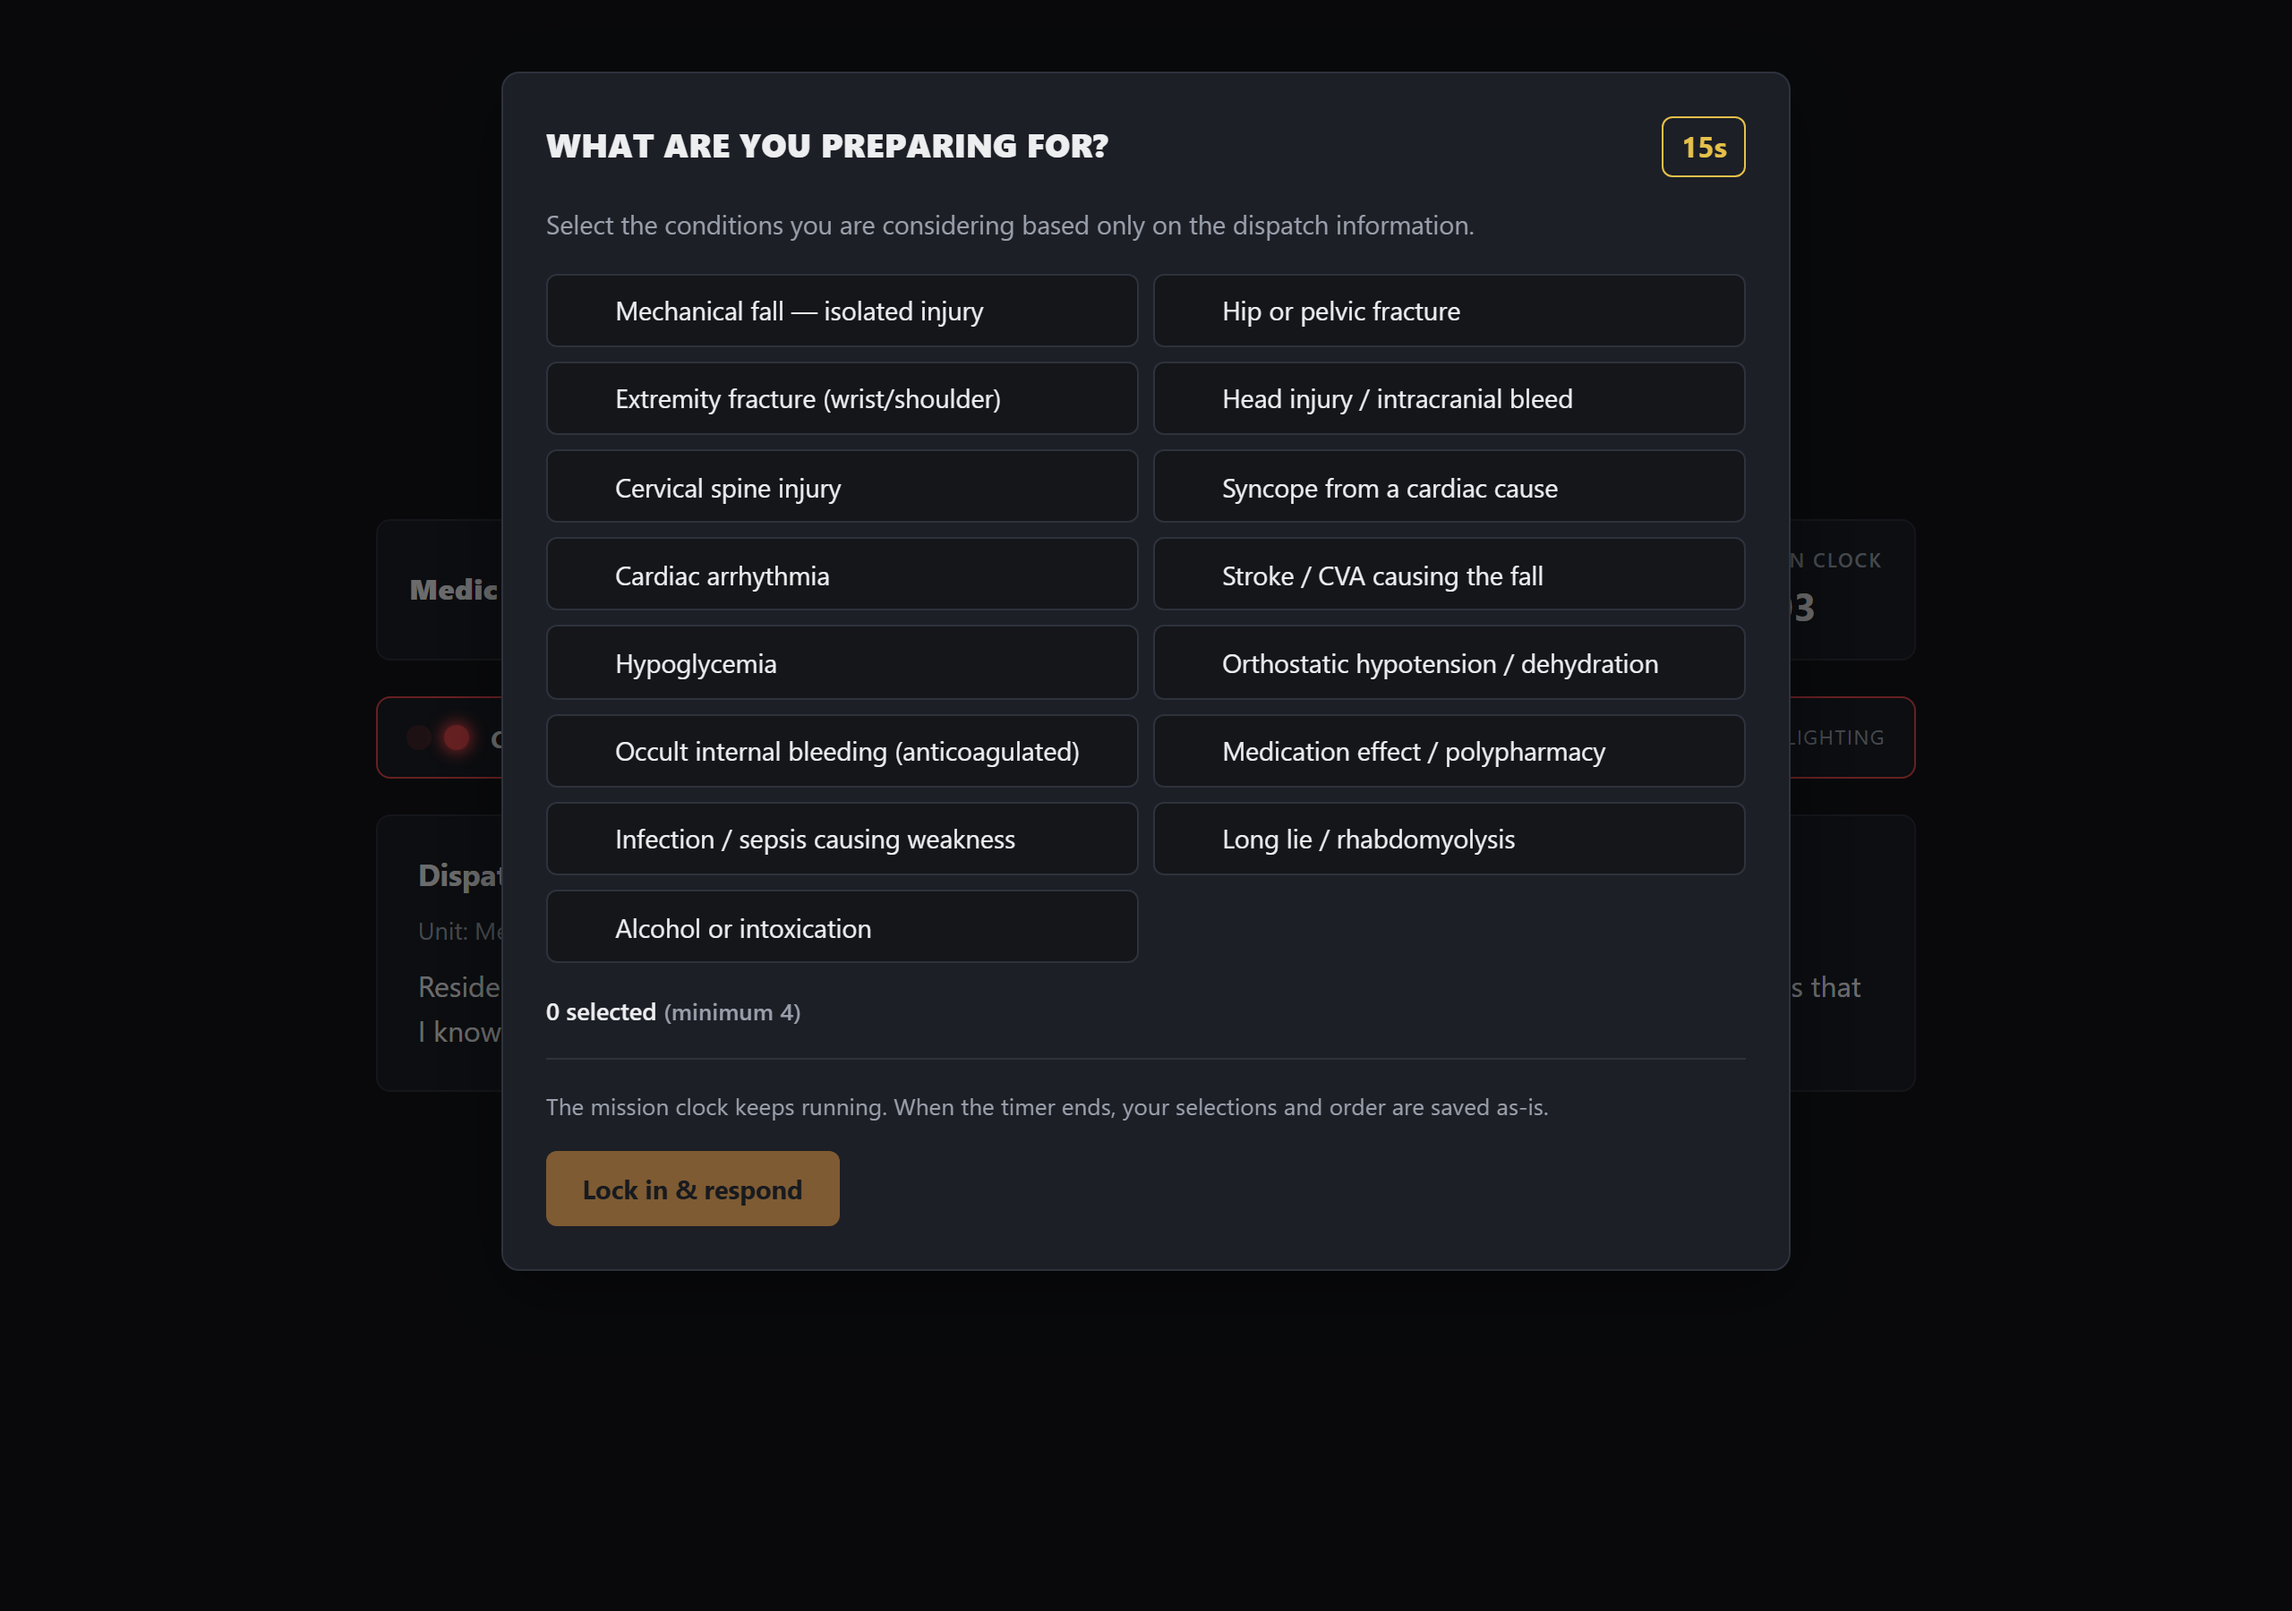
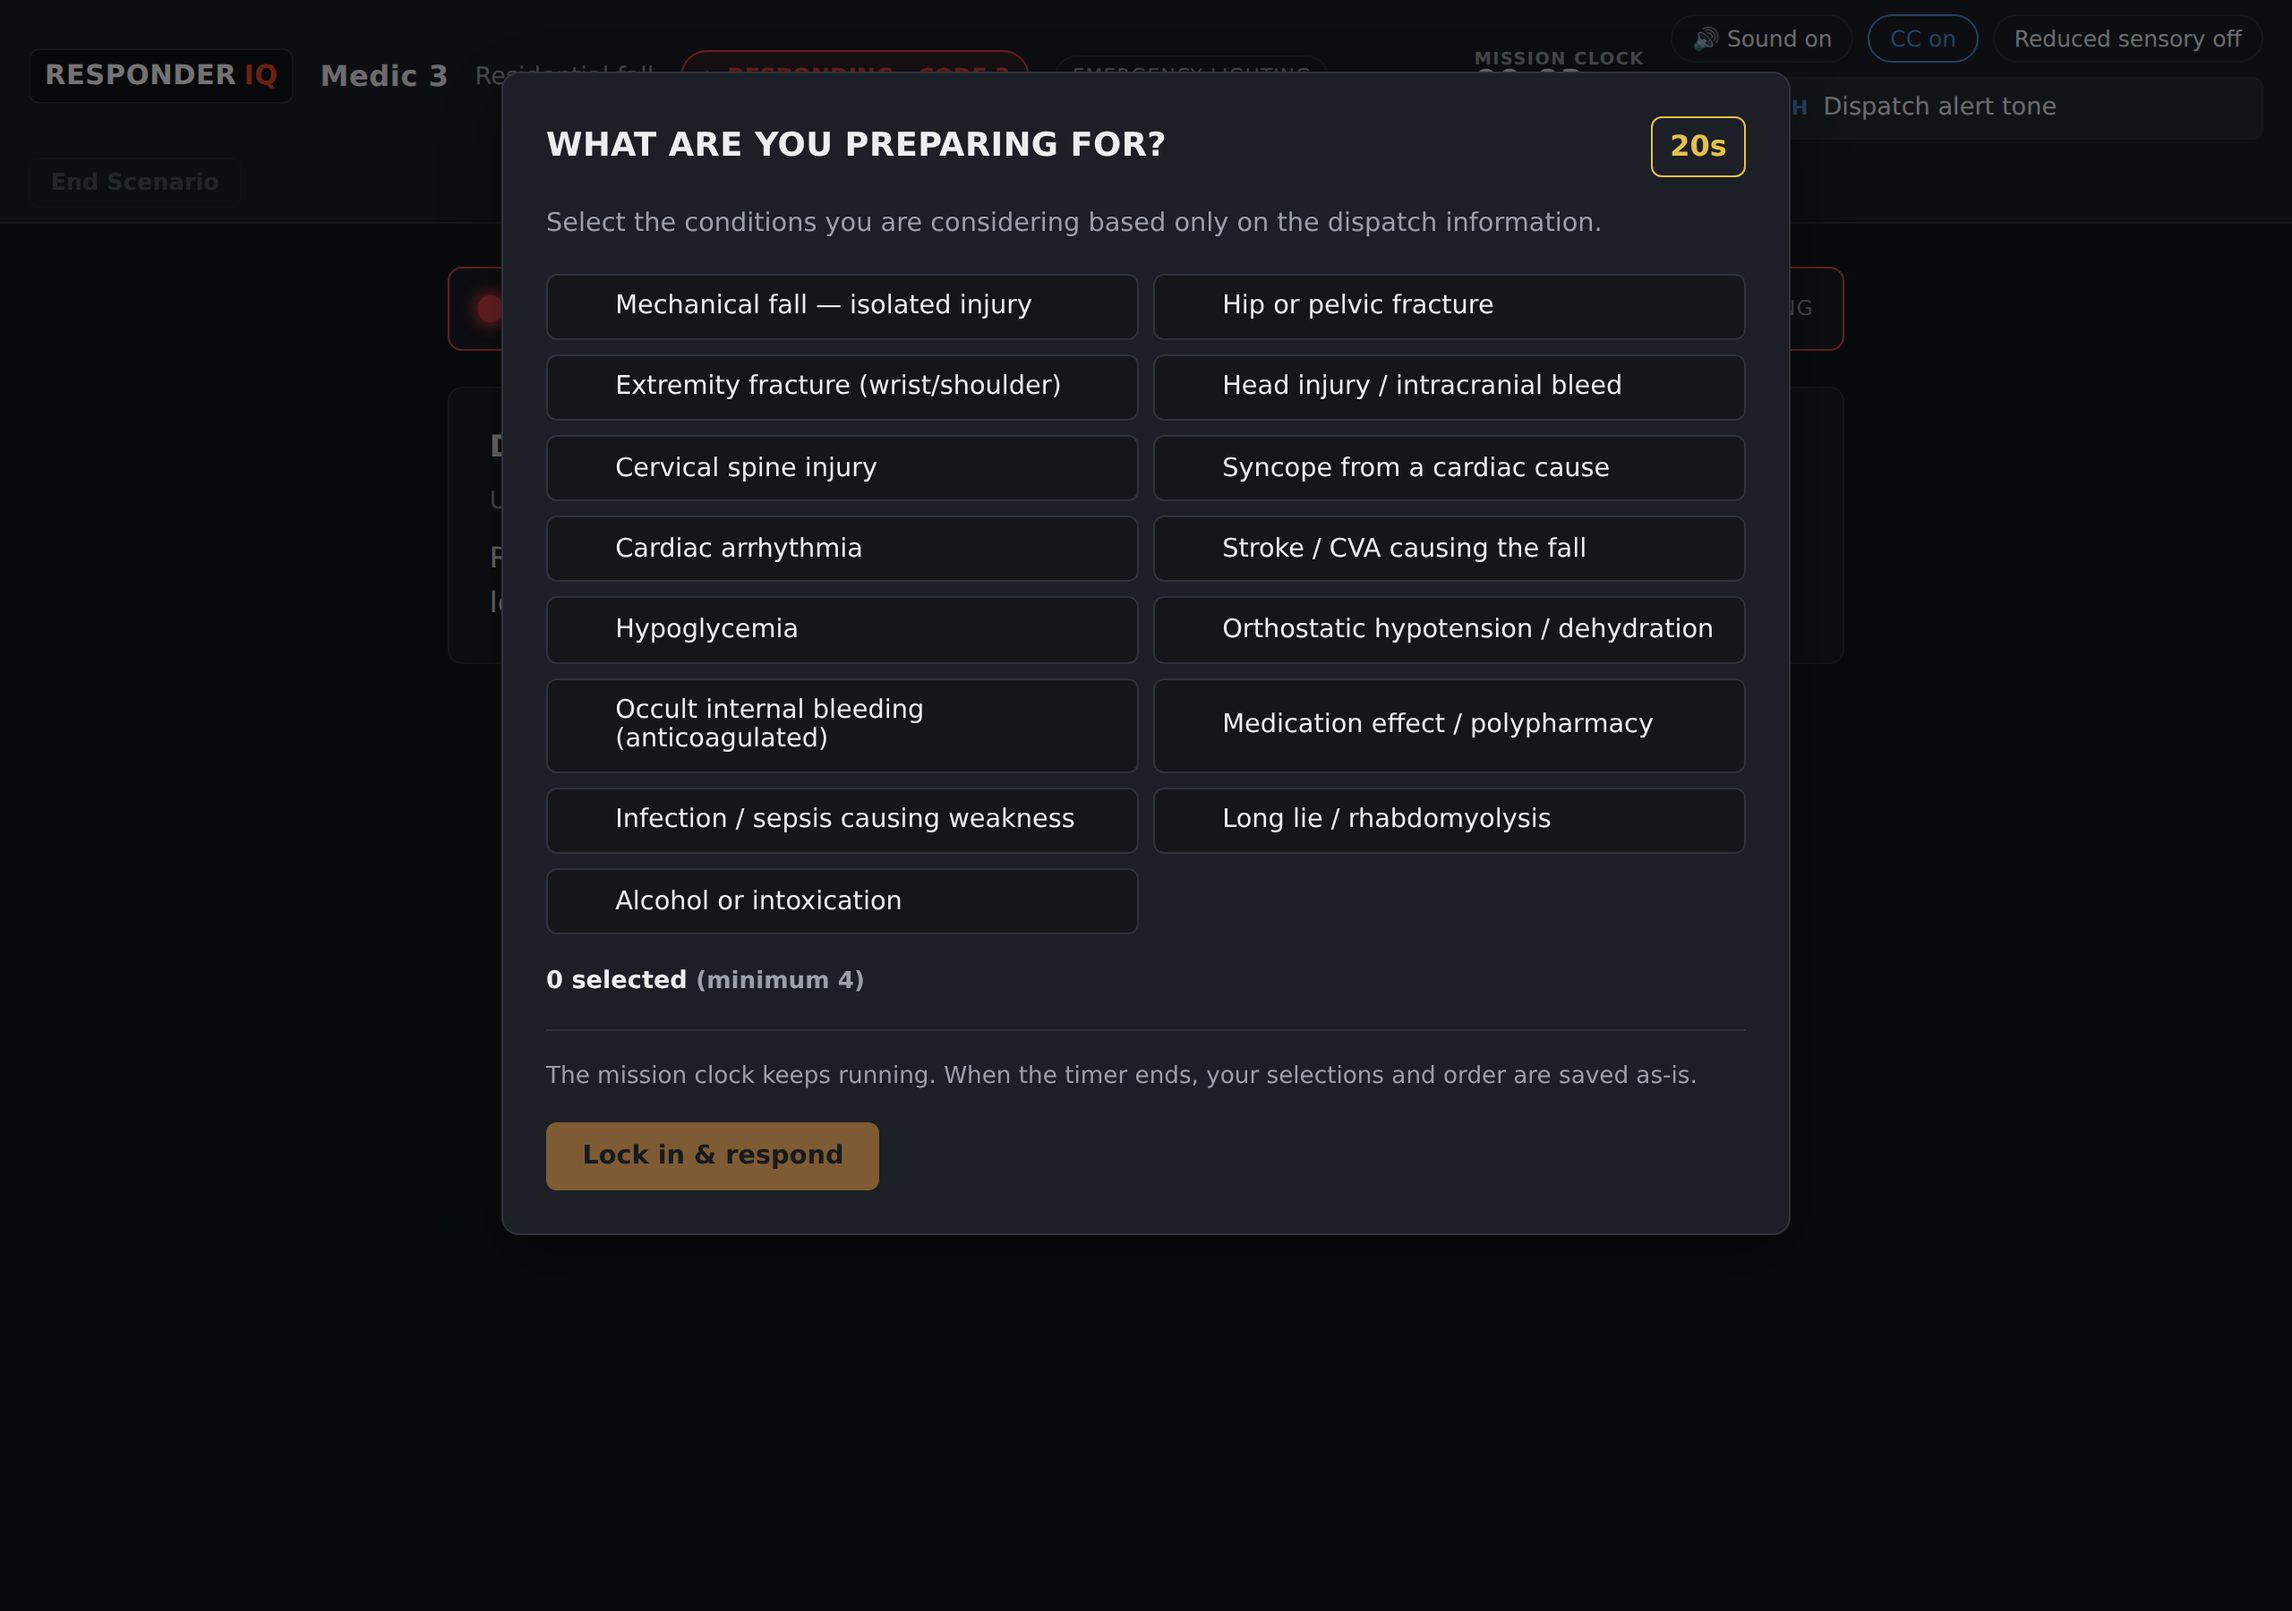
Differential timer: +5s at each difficulty (Orientation 15→20s, Above 10→15s)
Adjusts only the two centralized differential-countdown values in
lib/engine/config.ts. Every other timer (dispatch tone, mission clock, equipment,
scene, police, distraction escalation), the differential options, minimum
selection count, ranking, timeout behavior, scoring, and UI layout are unchanged.

- lib/engine/config.ts: differentialTimerSecondsOrientation 15→20,
  differentialTimerSecondsAboveOrientation 10→15.
- Tests updated to the new values and timeout timing:
  lib/engine/config.test.ts, lib/opsim/machine.test.ts,
  components/OperationalSim/OperationalSim.test.tsx.
- Docs/comments: lib/opsim/difficulty.ts, docs/STEP-12-HANDOFF.md.
- Re-captured the differential screenshots that display the countdown badge
  (opsim-differential-orientation/advanced/ranked).

Claude-Session: https://claude.ai/code/session_013BGZnK9HxRyAVExVavsMcA

diff --git a/components/OperationalSim/OperationalSim.test.tsx b/components/OperationalSim/OperationalSim.test.tsx
@@ -149,21 +149,21 @@ describe('OperationalSim — differential challenge (§8)', () => {
 });
 
 describe('OperationalSim — timers time out and save partial work (§8)', () => {
-  it('Orientation times out at 15 seconds after the differential opens (tone 3s + 15s)', () => {
+  it('Orientation times out at 20 seconds after the differential opens (tone 3s + 20s)', () => {
     const { advance } = renderSim({ level: 'orientation' });
+    advance(3); // opens at t=3
+    advance(19); // t=22, still open
+    expect(screen.getByRole('dialog', { name: /what are you preparing for/i })).toBeInTheDocument();
+    advance(1); // t=23 -> timeout
+    expect(screen.queryByRole('dialog', { name: /what are you preparing for/i })).toBeNull();
+  });
+
+  it('Above Orientation times out at 15 seconds (tone 3s + 15s)', () => {
+    const { advance } = renderSim({ level: 'advanced' });
     advance(3); // opens at t=3
     advance(14); // t=17, still open
     expect(screen.getByRole('dialog', { name: /what are you preparing for/i })).toBeInTheDocument();
     advance(1); // t=18 -> timeout
-    expect(screen.queryByRole('dialog', { name: /what are you preparing for/i })).toBeNull();
-  });
-
-  it('Above Orientation times out at 10 seconds (tone 3s + 10s)', () => {
-    const { advance } = renderSim({ level: 'advanced' });
-    advance(3); // opens at t=3
-    advance(9); // t=12, still open
-    expect(screen.getByRole('dialog', { name: /what are you preparing for/i })).toBeInTheDocument();
-    advance(1); // t=13 -> timeout
     expect(screen.queryByRole('dialog', { name: /what are you preparing for/i })).toBeNull();
   });
 
@@ -172,7 +172,7 @@ describe('OperationalSim — timers time out and save partial work (§8)', () =>
     advance(3);
     const buttons = within(diffGroup()).getAllByRole('button');
     [0, 1].forEach((i) => fireEvent.click(buttons[i])); // only two
-    advance(15); // timeout at t=18
+    advance(20); // timeout at t=23
     expect(screen.queryByRole('dialog', { name: /what are you preparing for/i })).toBeNull();
     expect(screen.getByText('ON SCENE')).toBeInTheDocument(); // arrived, did not get stuck
   });

diff --git a/lib/engine/config.test.ts b/lib/engine/config.test.ts
@@ -14,10 +14,10 @@ describe('DEFAULT_SIMULATOR_CONFIG — approved fixed values (§29)', () => {
   const t = DEFAULT_SIMULATOR_CONFIG.timing;
 
   it('dispatch tone is 3 seconds', () => expect(t.dispatchToneSeconds).toBe(3));
-  it('differential timer is 15 seconds at Orientation', () =>
-    expect(t.differentialTimerSecondsOrientation).toBe(15));
-  it('differential timer is 10 seconds above Orientation', () =>
-    expect(t.differentialTimerSecondsAboveOrientation).toBe(10));
+  it('differential timer is 20 seconds at Orientation', () =>
+    expect(t.differentialTimerSecondsOrientation).toBe(20));
+  it('differential timer is 15 seconds above Orientation', () =>
+    expect(t.differentialTimerSecondsAboveOrientation).toBe(15));
   it('equipment prompt delay is 3 seconds', () => expect(t.equipmentPromptDelaySeconds).toBe(3));
   it('fire officer question delay is 5 seconds after engine arrival', () =>
     expect(t.fireOfficerQuestionDelaySeconds).toBe(5));

diff --git a/lib/opsim/machine.test.ts b/lib/opsim/machine.test.ts
@@ -117,11 +117,11 @@ describe('opsim machine — differential challenge (§8)', () => {
 });
 
 describe('opsim differential timer resolves from approved config (§8)', () => {
-  it('is 15 seconds at Orientation', () => {
-    expect(differentialTimerSeconds('orientation')).toBe(15);
+  it('is 20 seconds at Orientation', () => {
+    expect(differentialTimerSeconds('orientation')).toBe(20);
   });
-  it('is 10 seconds above Orientation', () => {
-    expect(differentialTimerSeconds('advanced')).toBe(10);
+  it('is 15 seconds above Orientation', () => {
+    expect(differentialTimerSeconds('advanced')).toBe(15);
   });
 });
 

diff --git a/lib/engine/config.ts b/lib/engine/config.ts
@@ -82,8 +82,8 @@ export interface SimulatorConfig {
 export const DEFAULT_SIMULATOR_CONFIG: SimulatorConfig = {
   timing: {
     dispatchToneSeconds: 3,
-    differentialTimerSecondsOrientation: 15,
-    differentialTimerSecondsAboveOrientation: 10,
+    differentialTimerSecondsOrientation: 20,
+    differentialTimerSecondsAboveOrientation: 15,
     equipmentPromptDelaySeconds: 3,
     fireOfficerQuestionDelaySeconds: 5,
     policeArrivalSeconds: 15,

diff --git a/lib/opsim/difficulty.ts b/lib/opsim/difficulty.ts
@@ -2,7 +2,7 @@ import { DEFAULT_SIMULATOR_CONFIG, type SimulatorConfig } from '@/lib/engine/con
 import type { DifficultyLevel } from './types';
 
 /**
- * The differential countdown length (§8): 15 seconds at Orientation, 10 seconds
+ * The differential countdown length (§8): 20 seconds at Orientation, 15 seconds
  * at every level above it. Read from the approved typed config, never hard-coded.
  */
 export function differentialTimerSeconds(

diff --git a/docs/STEP-12-HANDOFF.md b/docs/STEP-12-HANDOFF.md
@@ -57,7 +57,7 @@ cleanup fix), `scripts/screenshots-final-gaps.mjs`, `scripts/screenshots-admin.m
 
 - Branding (RESPONDER white / IQ crimson orange), light/dark themes, Instructions + color legend.
 - Truck Check / Unit Check-Off with detailed bag/monitor contents and the five-question challenge.
-- Dispatch → Code 3 → timed differential (Orientation 15s / above 10s) → equipment selection (45s retrieval for anything left behind).
+- Dispatch → Code 3 → timed differential (Orientation 20s / above 15s) → equipment selection (45s retrieval for anything left behind).
 - Windshield assessment, scene lighting revealing hazards, staging, police clearance (15s + 10s), Safe/Not-Safe to Enter, ballistic PPE prompt.
 - Fire-engine arrival, fire officer offer (5s after Ron), personnel Awaiting Assignment, Partner Ron assignment, task reassignment, 45s equipment retrieval, two-engine MVC, Clear Engine (blocked/successful), additional-resource requests.
 - Scene Dynamics: distractions that escalate (10s then every 5s), Being Managed, Resolved.
